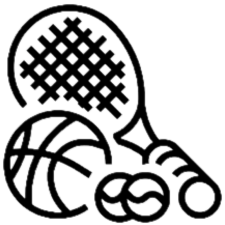
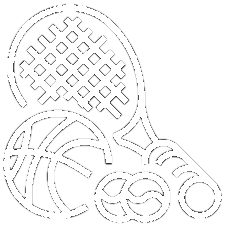
Photos de profil fonctionnelles

Changed region(s): [[0.0, 0.0, 0.9956, 0.9956]]

diff --git a/project/templates/settings.html b/project/templates/settings.html
@@ -17,32 +17,32 @@
 <body>
     <div class="profile-content d-flex flex-column align-items-center" style="max-width: 980px;margin: 30px auto 0 auto;">
         <div class="text-center avatar mb-2">
-            <img src="{{ user.profile_pic }}" width="150" height="150">
+            <img class="rounded-circle" src="{{ user.profile_pic }}" width="150" height="150">
             <div class="name Fs(36) p-1" style="font-weight: 900;">{{ user.fname }}</div>
         </div>
         <div class="profile-container">
             <div class="profile-card position-relative C(p)" data-toggle="modal" data-target="#Modal">
                 <div class="content">
                     <div class="title">Mes informations</div>
-                    <div class="subtitle">{{ user.fname }}</div>
+                    <div class="subtitle Fs(16)">{{ user.fname }}</div>
                 </div>
             </div>
             <div class="profile-card position-relative">
                 <div class="content">
                     <div class="title">Localisation</div>
-                    <div class="subtitle">{{ user.localisation }}</div>
+                    <div class="subtitle Fs(16)">{{ user.localisation }}</div>
                 </div>
             </div>
             <div class="profile-card position-relative">
                 <div class="content">
                     <div class="title">Sexe</div>
-                    <div class="subtitle">{{ user.sexe }}</div>
+                    <div class="subtitle Fs(16)">{{ user.sexe }}</div>
                 </div>
             </div>
             <div class="profile-card position-relative">
                 <div class="content">
                     <div class="title">Orientation Sexuelle</div>
-                    <div class="subtitle">{{ user.orientation }}</div>
+                    <div class="subtitle Fs(16)">{{ user.orientation }}</div>
                 </div>
             </div>
         </div>
@@ -63,17 +63,11 @@
                                 <input class="border-0 text-center" type="text" value="{{ user.lname }}" disabled>
                             </div>
                         </div>
-                        <div class="row pb-3">
+                        <div class="row">
                             <div class="input-block">
                                 <label class="d-block Fs(14)">Adresse e-mail</label>
                                 <input class="border-0 text-center" type="text" value="{{ user.email }}" disabled>
                             </div>
-                            <div class="input-block">
-                                <label class="d-block Fs(14)">Identifiant</label>
-                                <input class="border-0 text-center" type="text" value="{{ user.id }}" disabled>
-                            </div>
-                        </div>
-                        <div class="row">
                             <div class="input-block">
                                 <label class="d-block Fs(14)">Age</label>
                                 <input class="border-0 text-center" type="text" value="{{ user.age }}" disabled>
@@ -93,7 +87,7 @@
             <div class="profile-card text-center ml-5" style="width: 30%;">
                 <div class="content">
                     <div class="title">Centres d'intérêt</div>
-                    <div class="subtitle">{{ user.hobbies }}</div>
+                    <div class="subtitle Fs(16)">{{ user.hobbies }}</div>
                 </div>
             </div>
             <form action="/delete">

diff --git a/project/templates/registration.html b/project/templates/registration.html
@@ -18,12 +18,11 @@
     <title>Singlefind Inscription</title>
 </head>
 <body onload="FillAllSelector()">
-    <div class="form-container text-center align-items-center py-4 my-5">
-        <form action="/signup" class="form-signin w-100 m-auto p-1" style="max-width: 375px;" method="POST">
-            <div id="input-container">
-                <i class="fa-solid fa-2x fa-users bg-danger rounded-circle p-3" style="border: 3px solid black;" onclick="autoclick()">
-                    <input class="d-none" type="file" name="photo" id="inputF" onchange="loadImg(event)">
-                </i>
+    <div class="form-container text-center align-items-center py-3 my-5">
+        <form action="/signup" class="form-signin w-100 m-auto p-1" style="max-width: 375px;" method="POST" enctype="multipart/form-data">
+            <div class="input-container">
+                <i id="icon-reg" class="fa-solid fa-2x fa-users bg-danger rounded-circle p-3" style="border: 3px solid black;" onclick="autoclick()"></i>
+                <input class="d-none" type="file" name="profilePic" id="inputF" onchange="loadImg(event)">
             </div>
             <h1 class="h3 mt-3 mb-4 font-weight-normal">S'inscrire à Singlefind</h1>
             <div class="name-container d-flex mb-3">

diff --git a/project/static/js/profile-picture.js b/project/static/js/profile-picture.js
@@ -3,7 +3,11 @@ function autoclick() {
 }
 
 function loadImg(event) {
-    var content = document.getElementById('input-container');
+    var icon = document.getElementById('icon-reg');
+    const img = document.createElement("img")
     image_submitted = event.target.files[0]
-    content.innerHTML = `<img src="${URL.createObjectURL(image_submitted)}" class="rounded-circle" height=120 width=120 id="output" name="profile_pic" accept="image/png image/jpg">`;
+    icon.replaceWith(img)
+    img.src = (URL.createObjectURL(image_submitted))
+    img.width = 100
+    img.classList.add('rounded-circle')
 }

diff --git a/project/templates/match.html b/project/templates/match.html
@@ -64,7 +64,7 @@
                         <p class="m-2 Fs(20)">Aime les jeux vidéo</p>
                     </div>
                     <div class="d-flex flex-row">
-                        <img class="mb-3" src="../static/images/sports.png" width="36" height="36">
+                        <img class="mb-3 text-white" src="../static/images/sports.png" width="36" height="36">
                         <p class="m-2 Fs(20)">Aime le sport</p>
                     </div>
                 </div>

diff --git a/project/auth.py b/project/auth.py
@@ -1,8 +1,10 @@
-from flask import Blueprint, render_template, redirect, url_for, request, flash
+from flask import Blueprint, render_template, redirect, url_for, request, flash, current_app
 from werkzeug.security import generate_password_hash, check_password_hash
 from flask_login import login_user, login_required, logout_user
+from werkzeug.utils import secure_filename
 from .models import User
 from . import db
+import os
 
 auth = Blueprint('auth', __name__)
 global email # Cette variable permet d'avoir accès à l'utilisateur puisque chaque adresse mail est unique
@@ -32,16 +34,18 @@ def signup():
 @auth.route('/signup', methods=['POST'])
 def signup_post():
     global email
-    profile_pic = request.form.get("profile_pic")
+    profile_pic = request.files["profilePic"]
     fname = request.form.get("fname")
     lname = request.form.get("lname")
     email = request.form.get("email")
     password = request.form.get("password")
     age = request.form.get("age")
     user = User.query.filter_by(email=email).first()
+    path_to_picture = '/static/images/' + secure_filename(profile_pic.filename)
+    profile_pic.save(os.path.join(current_app.config['UPLOAD_FOLDER'], secure_filename(profile_pic.filename)))
     if user: # Si l'utilisateur existe déjà
         return redirect(url_for('auth.login')) # Redirection de la page de connexion
-    new_user = User(profile_pic=profile_pic, fname=fname, lname=lname, email=email, password=generate_password_hash(password, method='sha256'), age=age) # Création de l'utilisateur
+    new_user = User(profile_pic=path_to_picture, fname=fname, lname=lname, email=email, password=generate_password_hash(password, method='sha256'), age=age) # Création de l'utilisateur
     db.session.add(new_user) # Ajouter l'utilisateur à la base de données
     db.session.commit() # Mettre la base de données à jour
     return redirect(url_for("auth.confirmation")) # Redirection vers la page de confirmation

diff --git a/project/__init__.py b/project/__init__.py
@@ -1,6 +1,7 @@
 from flask import Flask
 from flask_sqlalchemy import SQLAlchemy
 from flask_login import LoginManager
+from os.path import join, dirname, realpath
 
 db = SQLAlchemy() # Création de la base de données
 
@@ -9,6 +10,7 @@ def create_app():
 
     app.config['SECRET_KEY'] = '9OLWxND4o83j4K4iuop1'
     app.config["SQLALCHEMY_DATABASE_URI"] = "sqlite:///project.db" # configure SQLite database
+    app.config["UPLOAD_FOLDER"] = join(dirname(realpath(__file__)), 'static/images/')
 
     db.init_app(app) # initialise l'app avec l'extension
 

diff --git a/project/models.py b/project/models.py
@@ -3,7 +3,7 @@ from . import db
 
 class User(UserMixin, db.Model):
     id = db.Column(db.Integer, primary_key=True) # primary keys are required by SQLAlchemy
-    profile_pic = db.Column(db.String(), nullable=True)
+    profile_pic = db.Column(db.String(30), nullable=True)
     fname = db.Column(db.String(30))
     lname = db.Column(db.String(30))
     email = db.Column(db.String(30), unique=True)

diff --git a/project/main.py b/project/main.py
@@ -1,4 +1,4 @@
-from flask import Blueprint, render_template, Flask
+from flask import Blueprint, render_template
 from flask_login import login_required, current_user
 from .models import User
 from . import db
